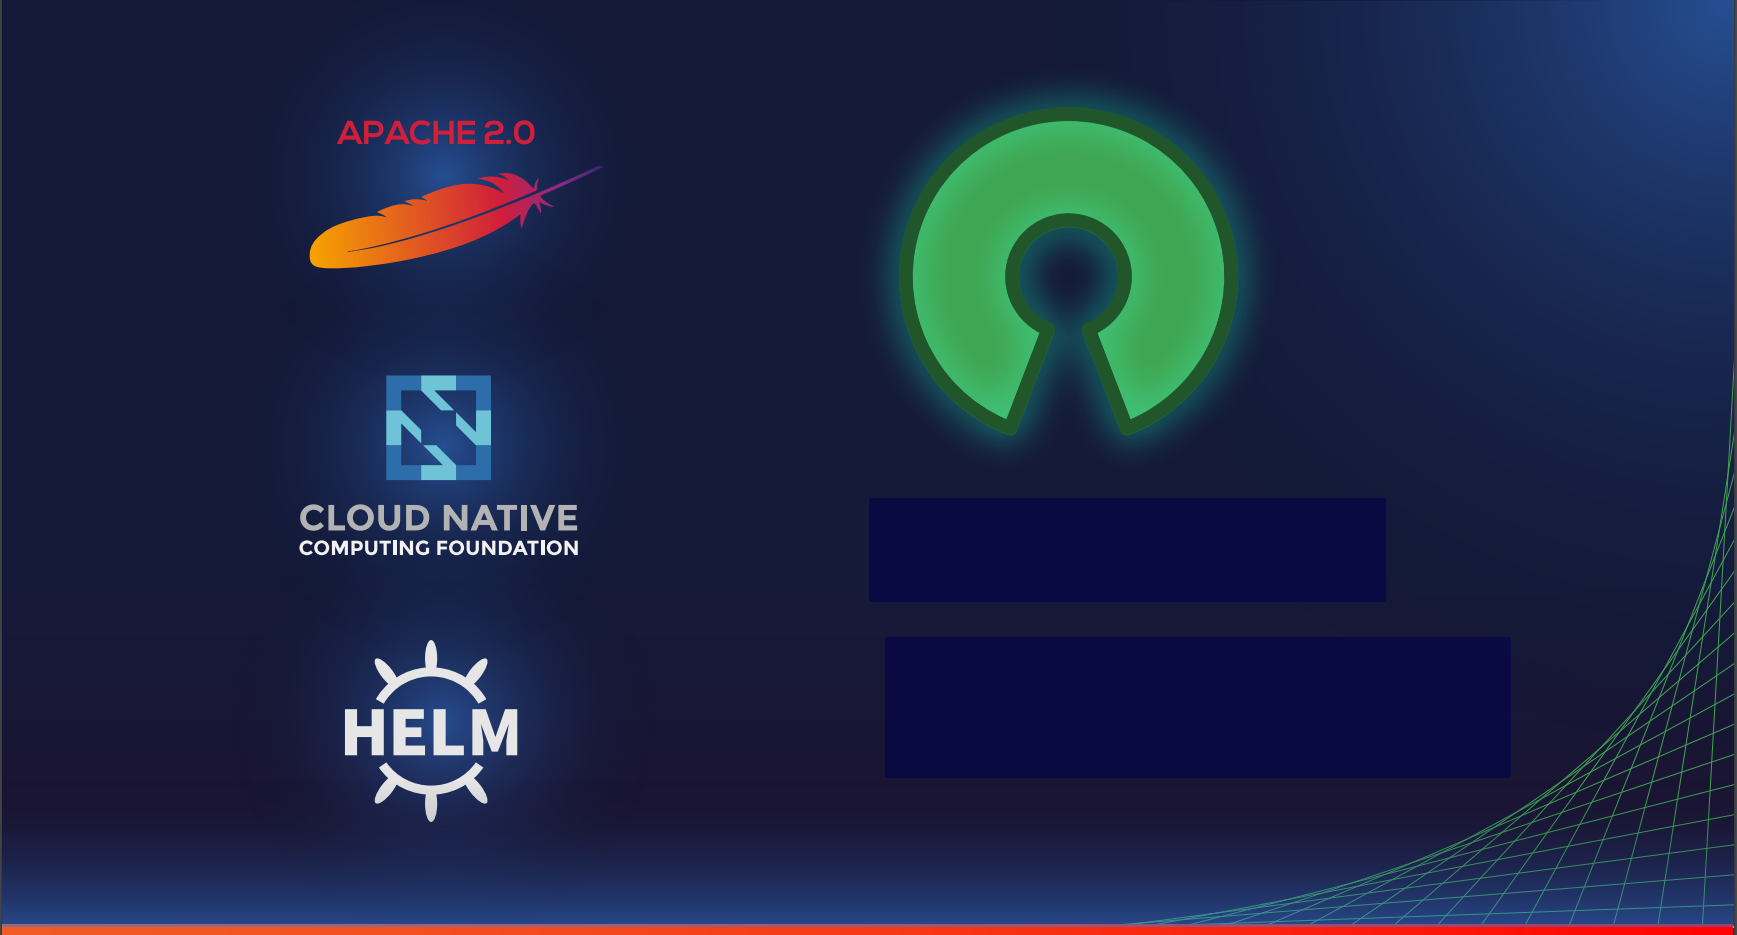
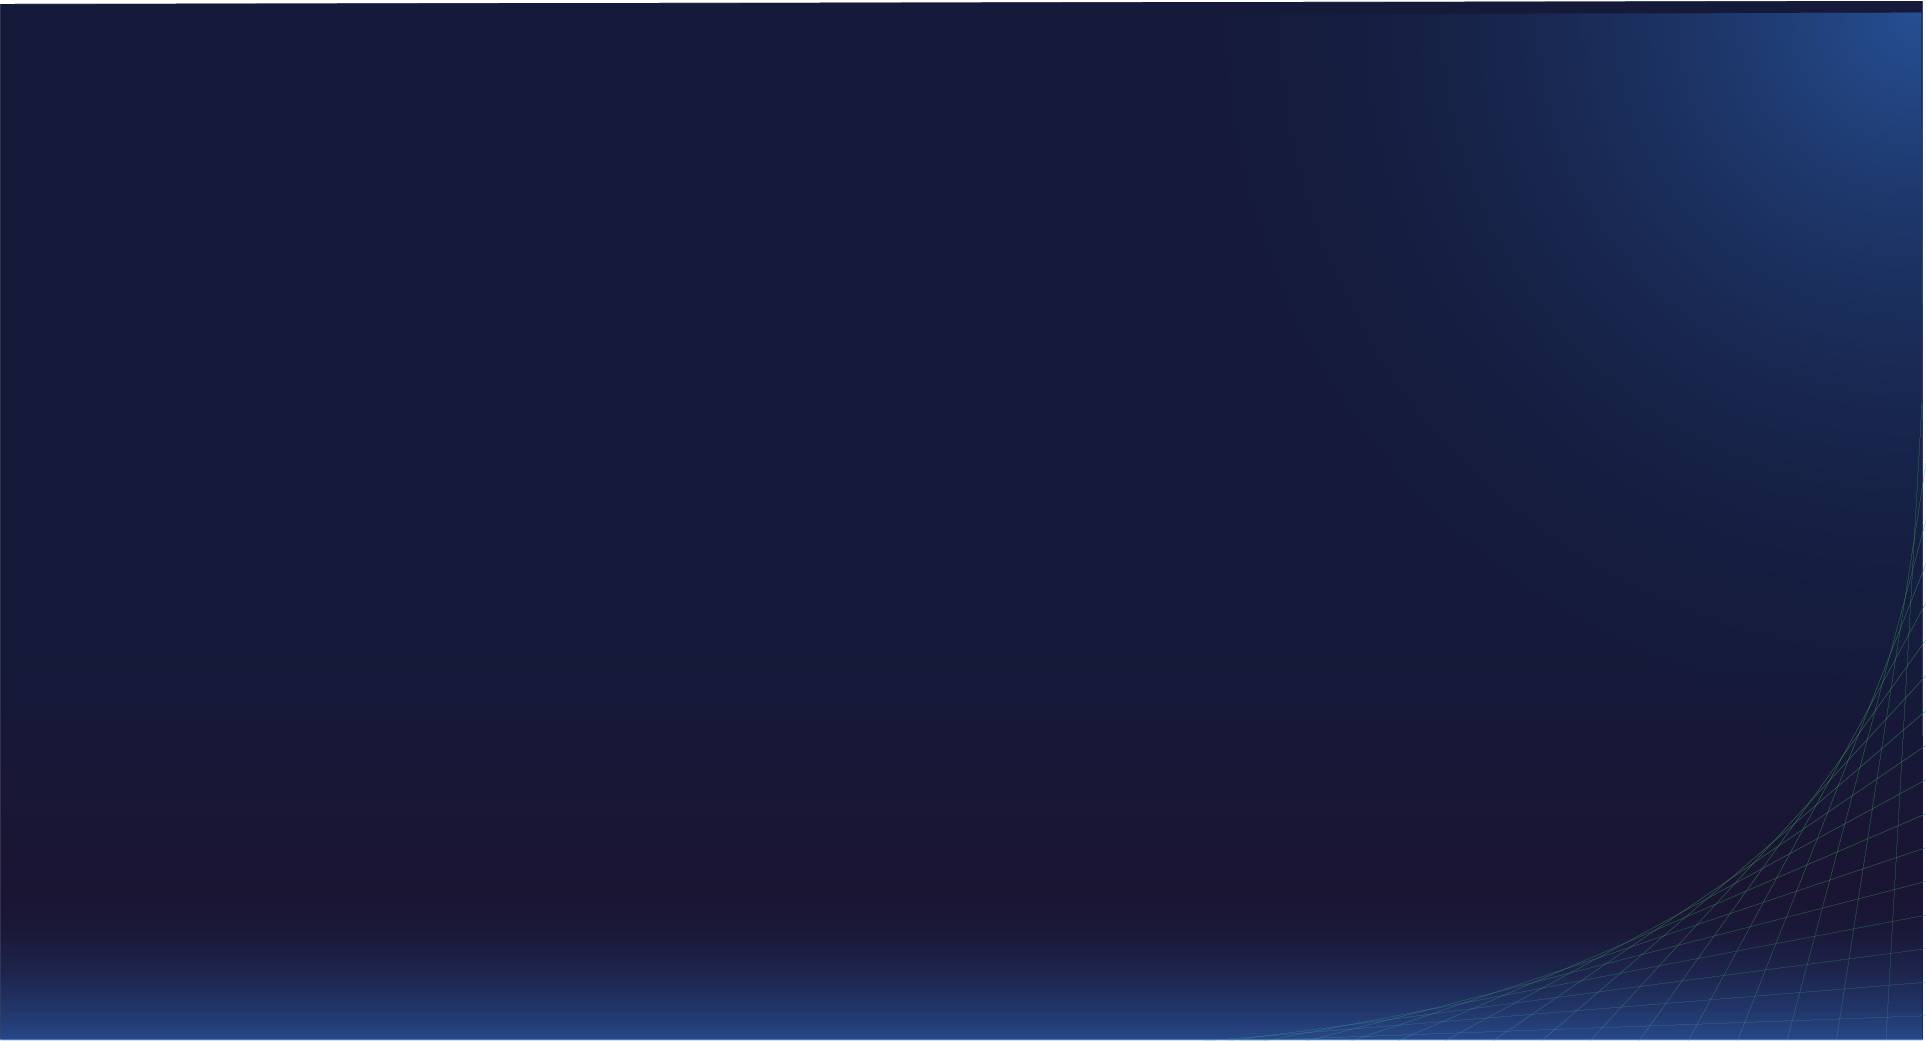
section-4

diff --git a/content/en/_index.html b/content/en/_index.html
@@ -10,7 +10,7 @@ linkTitle = "SiteWhere"
 <link href="fonts/AktivGrotesk-Font/stylesheet.css" rel="stylesheet" />
 <link href="fonts/Myriad-Pro-Font/stylesheet.css" rel="stylesheet" />
 
-
+<!-- section 1 -->
 <section id="first-section" class=" first-background row td-cover-block js-td-cover td-overlay
  -bg-blue pt-0 pb-0">
 	<div class="row align-items-center" >
@@ -39,13 +39,14 @@ linkTitle = "SiteWhere"
 	</div>
 </section>
 
-
+<!-- section 2 -->
 <section id="second-section"  class="row td-cover-block js-td-cover td-overlay -bg-blue second-background">
 	<div class="row">
 
 	</div>
 </section>
 
+<!-- section 3 -->
 <section id="third-section" style="" class="row td-cover-block js-td-cover third-background  -bg-blue">
 	<div class="container-fluid">
 		<div class="col-7">
@@ -66,30 +67,31 @@ linkTitle = "SiteWhere"
 	</div>
 </section>
 
-<section id="forth-section" class="row td-cover-block js-td-cover  fourth-background -bg-blue">
-	<div class="container-fluid">
-		<div class="row  mt-3">
-		<div class="col-6">
+<!-- section 4 -->
+<section id="forth-section" class="fourth-background row td-cover-block js-td-cover td-overlay -bg-blue">
+
+	<div class="row ">
+		<div class="col-5">
+			<div class="d-flex justify-content-center">
+				<img src="/images/logos/logo_apache.png" class="logo-open-source">
+			</div>
+			<div class="d-flex justify-content-center ">
+				<img src="/images/logos/logo_cloud_native.png" class="logo-open-source">
+			</div>
 			<div class="d-flex justify-content-center mb-5">
-				<img src="/images/home/apache.PNG" class="logo-apache">
-			</div>
-			<div class="d-flex justify-content-center mt-5 mb-5">
-				<img src="/images/home/cloud-native.jpeg" class="logo-native-cloud">
-			</div>
-			<div class="d-flex justify-content-center mt-5">
-				<img src="/images/home/helm.png" class="logo-helm">
+				<img src="/images/logos/logo_helm.png" class="logo-open-source">
 			</div>
 		</div>
-		<div class="col-6">
+		<div class="col-7">
 			<div class="d-flex justify-content-start">
-				<img src="/images/home/open-source.png" class="logo-open-source">
+				<img src="/images/logos/image_open_source.png" class="logo-open-source-green">
 			</div>
-			<div class="text-left mt-3 section-title-white mr-lg-5 pr-lg-5" >
+			<div class="text-left mt-3 section-4-title mr-lg-5 pr-lg-5" >
 				Build on an
-				<span class="text-green"> Open Source Core </span>
+				<span class="section-4-title-green"> Open Source Core </span>
 				for Maximum Clarity
 			</div>
-			<div class="text-left mt-3 section-text-white mr-lg-5 pr-lg-5">
+			<div class="text-left mt-3 section-4-text mr-lg-5 pr-lg-5">
 				The core libraries, microservices and tooling for SiteWhere are made available as
 				open source under the Apache 2.0 license. Understand the code running your IoT
 				platform rather than using a "black box" system offered by many cloud providers.
@@ -97,8 +99,8 @@ linkTitle = "SiteWhere"
 				and Helm that are the core of the movement.
 			</div>
 		</div>
-		</div>
 	</div>
+
 </section>
 
 <section id="fifth-section" style="" class="row td-cover-block js-td-cover td-overlay fifth-background  -bg-blue">

diff --git a/assets/scss/_code.scss b/assets/scss/_code.scss
@@ -72,8 +72,7 @@
     height: 68vh;
 }
 .fourth-background {
-    //background-image:url('/images/background/fourth_background.png');
-    background: transparent linear-gradient(0deg, #1B1432 0%, #151A3A 100%) 0% 0% no-repeat padding-box;
+    background-image:url('/images/background/fourth_background.png');
     border: 1px solid #707070;
     opacity: 1;
     height: 108vh;
@@ -107,26 +106,18 @@
     height: 100px;
 }
 
-// section -
+// section - 4
 .logo-cloud-lock {
     width: 287px;
     height: 167px;
 }
-.logo-apache {
-    width: 287px;
-    height: 167px;
-}
-.logo-native-cloud {
-    width: 308px;
-    height: 200px;
-}
-.logo-helm {
-    width: 200px;
-    height: 190px;
-}
 .logo-open-source {
-    width: 375px;
-    height: 375px;
+    height: 200px;
+    width: 200px;
+}
+.logo-open-source-green {
+    height: 300px;
+    width: 300px;
 }
 .logo-performance {
     width: 590px;
